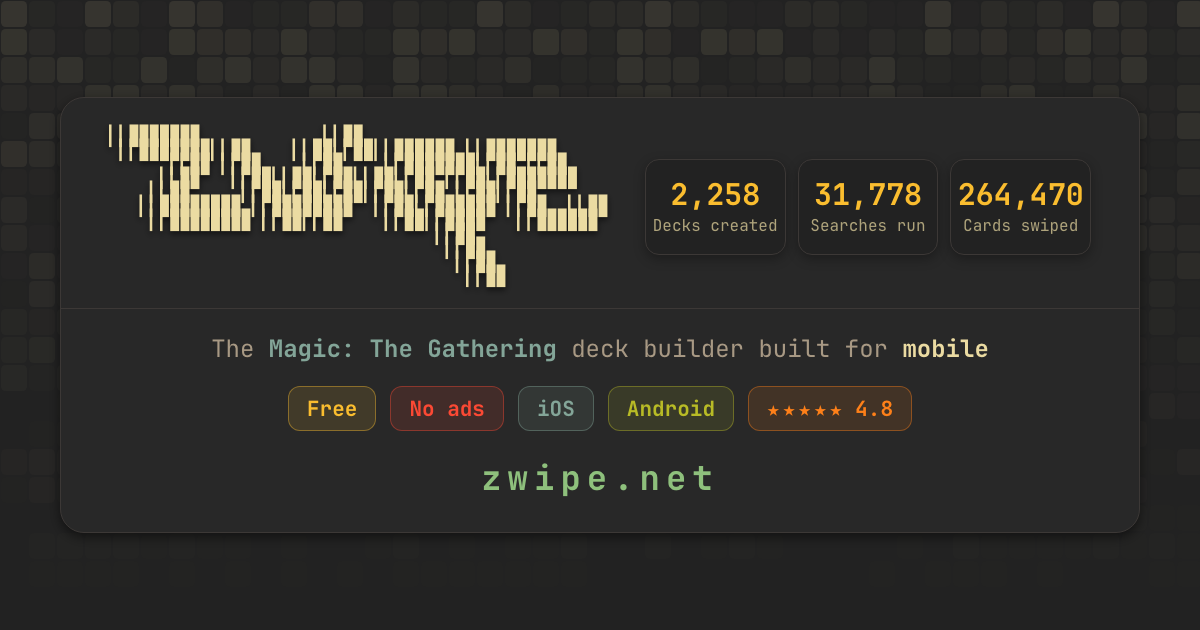
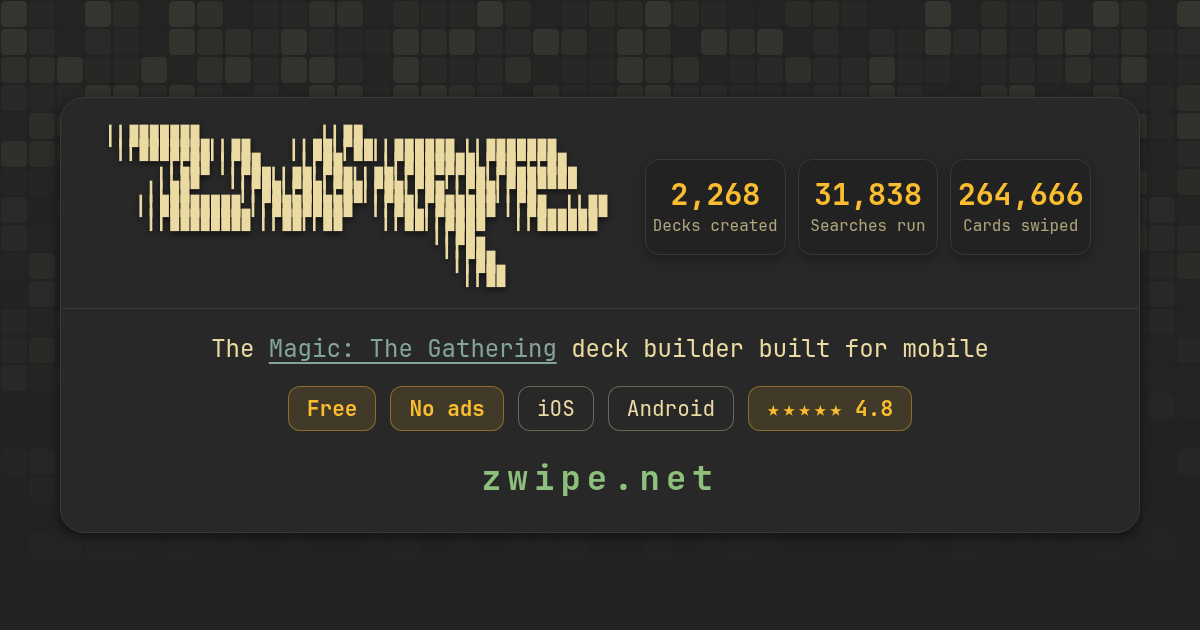
Stats snapshot and OG card: 2,268 decks, 31,838 searches, 264,666 swipes; the card's chips and tagline match the hero

diff --git a/context/marketing/og_default.html b/context/marketing/og_default.html
@@ -9,10 +9,10 @@
      public counters, a rule, the tagline, the chips with the rating last, and the
      domain. Tokens are copied from orangui/assets/themes.css
      .theme-gruvbox-dark, and the colors play the roles zite gives them: the
-     counters in palette-5, the tagline's link in palette-1, a bright
-     gruvbox color per chip (Free yellow, No ads red, iOS blue, Android green,
-     the rating orange)
-     and the domain in palette-6 aqua. The counters are a snapshot of the
+     counters in palette-5, the tagline in text-primary with its link in
+     palette-1, Free, No ads and the rating in palette-5 as the hero's value
+     chips and the reviews' rating tag, iOS and Android as the hero's plain
+     store pills, and the domain in palette-6 aqua. The counters are a snapshot of the
      live numbers at render time; refresh them when regenerating. The
      block-glyph wordmark needs the app's self-hosted JetBrains Mono (the CDN
      fontsource subset drops U+2580-U+259F), so the font is loaded from
@@ -46,11 +46,6 @@
   --palette-1: #83a598;
   --palette-5: #fabd2f;
   --palette-6: #8ec07c;
-  --red: #fb4934;
-  --green: #b8bb26;
-  --blue: #83a598;
-  --yellow: #fabd2f;
-  --orange: #fe8019;
   --shadow-sm: 0 4px 12px rgba(0, 0, 0, 0.3);
   --shadow-md: 0 4px 12px rgba(0, 0, 0, 0.5);
   --grid-line: rgba(235, 219, 162, 0.04);
@@ -147,14 +142,18 @@ body {
   align-items: center;
   gap: 18px;
   font-size: 24px;
-  color: var(--text-muted);
+  color: var(--text-primary);
   white-space: nowrap;
 }
-.link { color: var(--palette-1); font-weight: 700; }
-.hl { color: var(--text-primary); font-weight: 700; }
+.link {
+  color: var(--palette-1);
+  text-decoration: underline;
+  text-underline-offset: 5px;
+}
 .stars { letter-spacing: 3px; margin-right: 10px; }
 
-/* A bright gruvbox color per chip; the --c each sets is its text, tint and border. */
+/* The hero's chips: a value chip's --c is its text, tint and border; a store
+   pill is plain text on the panel. */
 .tags {
   display: flex;
   gap: 14px;
@@ -170,11 +169,13 @@ body {
   background-color: color-mix(in srgb, var(--c) 12%, transparent);
   border: 1px solid color-mix(in srgb, var(--c) 40%, transparent);
 }
-.tag-yellow { --c: var(--yellow); }
-.tag-red { --c: var(--red); }
-.tag-blue { --c: var(--blue); }
-.tag-green { --c: var(--green); }
-.tag-orange { --c: var(--orange); }
+.tag-value { --c: var(--palette-5); }
+.tag-store {
+  font-weight: 400;
+  color: var(--text-primary);
+  background-color: var(--bg-primary);
+  border-color: color-mix(in srgb, var(--text-primary) 35%, transparent);
+}
 
 .site {
   margin-top: 24px;
@@ -225,21 +226,21 @@ body {
                                   ▎▎▉▉
                                    ▎▎▉▉</pre>
       <div class="stats">
-        <div class="stat"><span class="stat-num">2,258</span><span class="stat-label">Decks created</span></div>
-        <div class="stat"><span class="stat-num">31,778</span><span class="stat-label">Searches run</span></div>
-        <div class="stat"><span class="stat-num">264,470</span><span class="stat-label">Cards swiped</span></div>
+        <div class="stat"><span class="stat-num">2,268</span><span class="stat-label">Decks created</span></div>
+        <div class="stat"><span class="stat-num">31,838</span><span class="stat-label">Searches run</span></div>
+        <div class="stat"><span class="stat-num">264,666</span><span class="stat-label">Cards swiped</span></div>
       </div>
     </div>
     <hr class="rule" />
     <div class="tagline">
-      <span>The <span class="link">Magic: The Gathering</span> deck builder built for <span class="hl">mobile</span></span>
+      <span>The <span class="link">Magic: The Gathering</span> deck builder built for mobile</span>
     </div>
     <div class="tags">
-      <span class="tag tag-yellow">Free</span>
-      <span class="tag tag-red">No ads</span>
-      <span class="tag tag-blue">iOS</span>
-      <span class="tag tag-green">Android</span>
-      <span class="tag tag-orange"><span class="stars">★★★★★</span>4.8</span>
+      <span class="tag tag-value">Free</span>
+      <span class="tag tag-value">No ads</span>
+      <span class="tag tag-store">iOS</span>
+      <span class="tag tag-store">Android</span>
+      <span class="tag tag-value"><span class="stars">★★★★★</span>4.8</span>
     </div>
     <div class="site">zwipe.net</div>
   </div>
